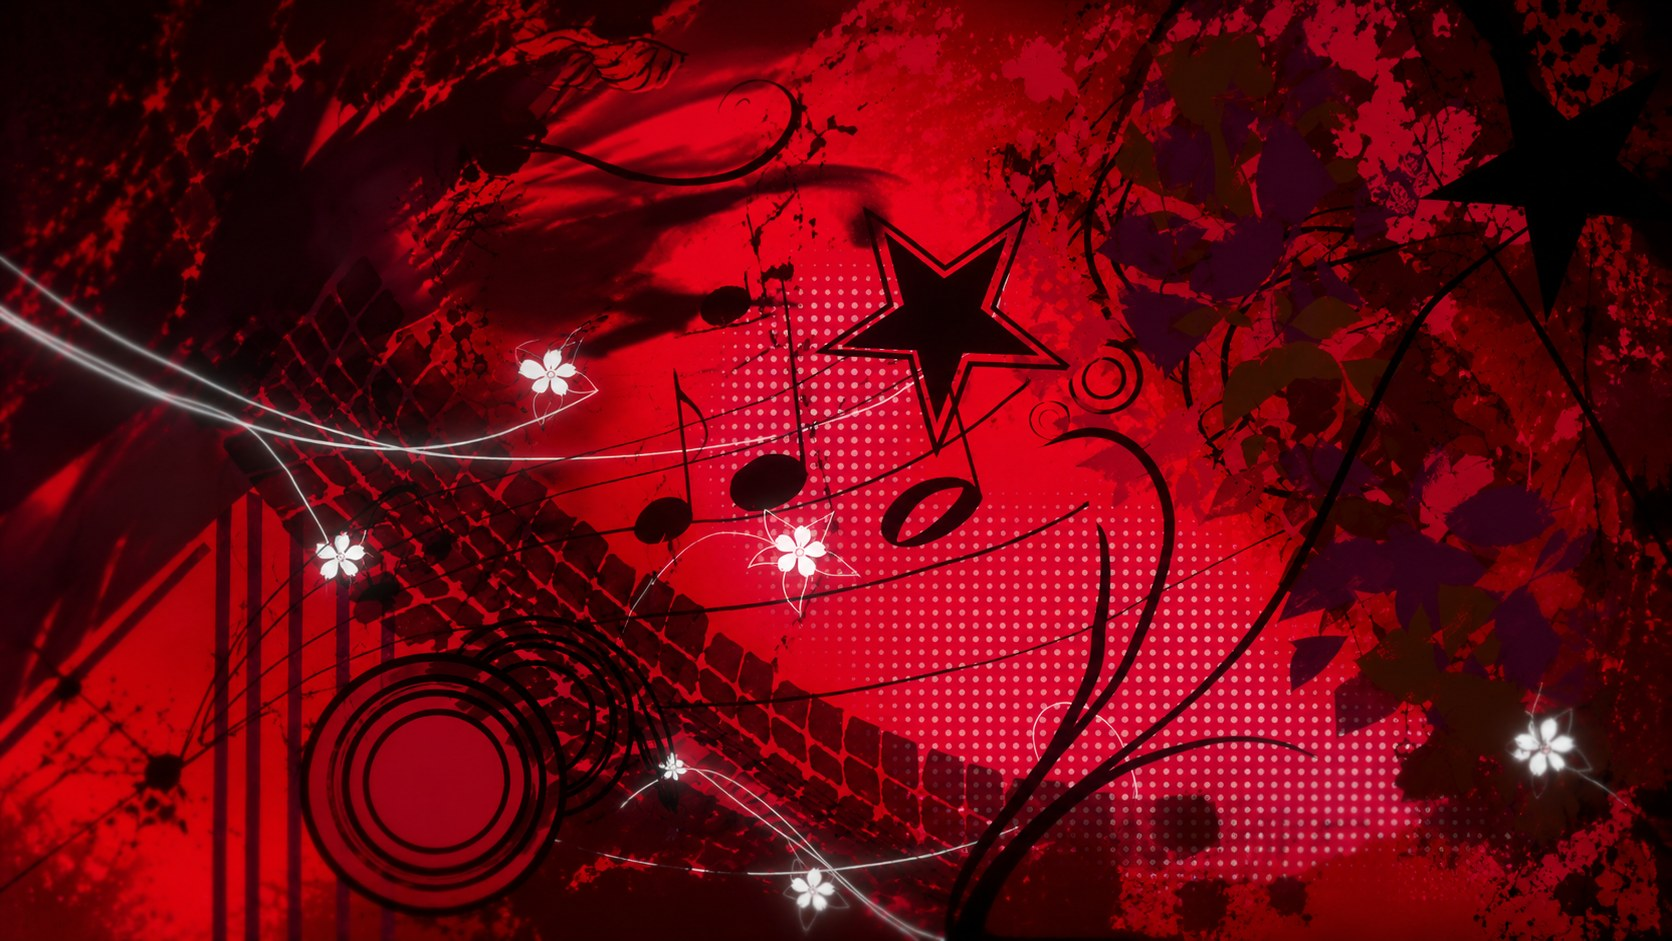
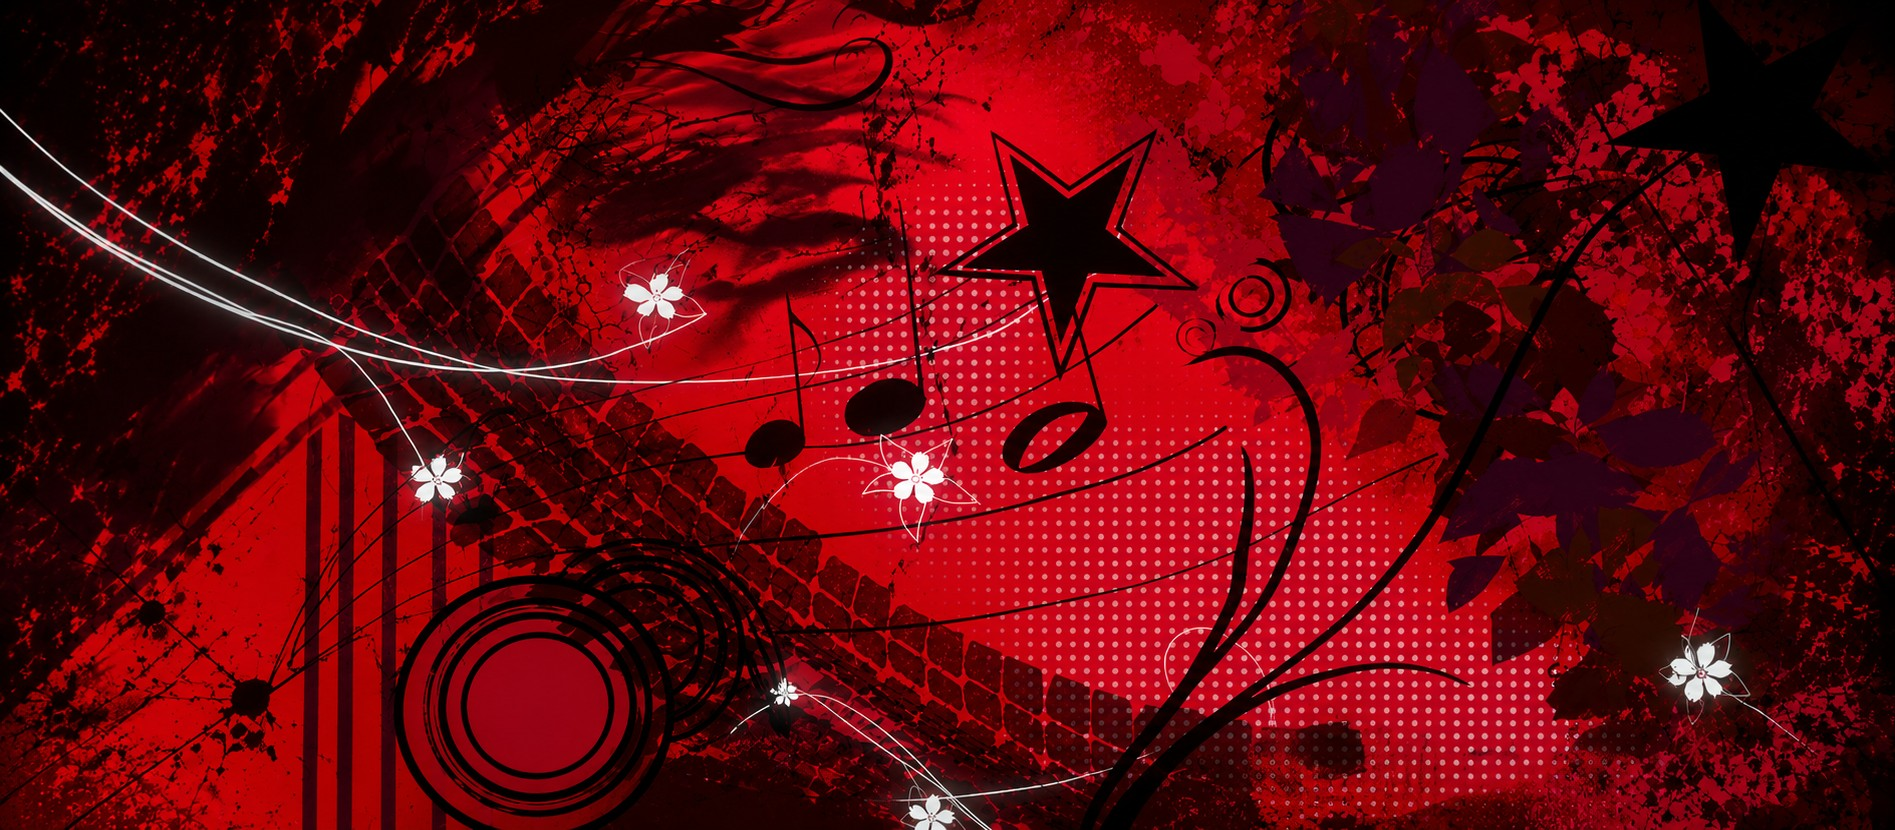
Le fond elargi : plus de bande vide, en fenetre comme en plein ecran
L image est maintenant dessinee plus large que la plus large des fenetres
(2.28), avec de la marge sur les bords. Elle remplit donc l ecran dans les
deux cas ; seul le decor de bord se perd au recadrage, jamais l etoile, les
notes ni les fleurs, qui tiennent dans la partie toujours visible.

diff --git a/index.html b/index.html
@@ -13,7 +13,7 @@
 <meta property="og:image" content="assets/cover.jpg">
 <meta property="og:type" content="music.album">
 <meta name="twitter:card" content="summary_large_image">
-<link rel="stylesheet" href="style.css?v=5">
+<link rel="stylesheet" href="style.css?v=6">
 </head>
 <body>
 
